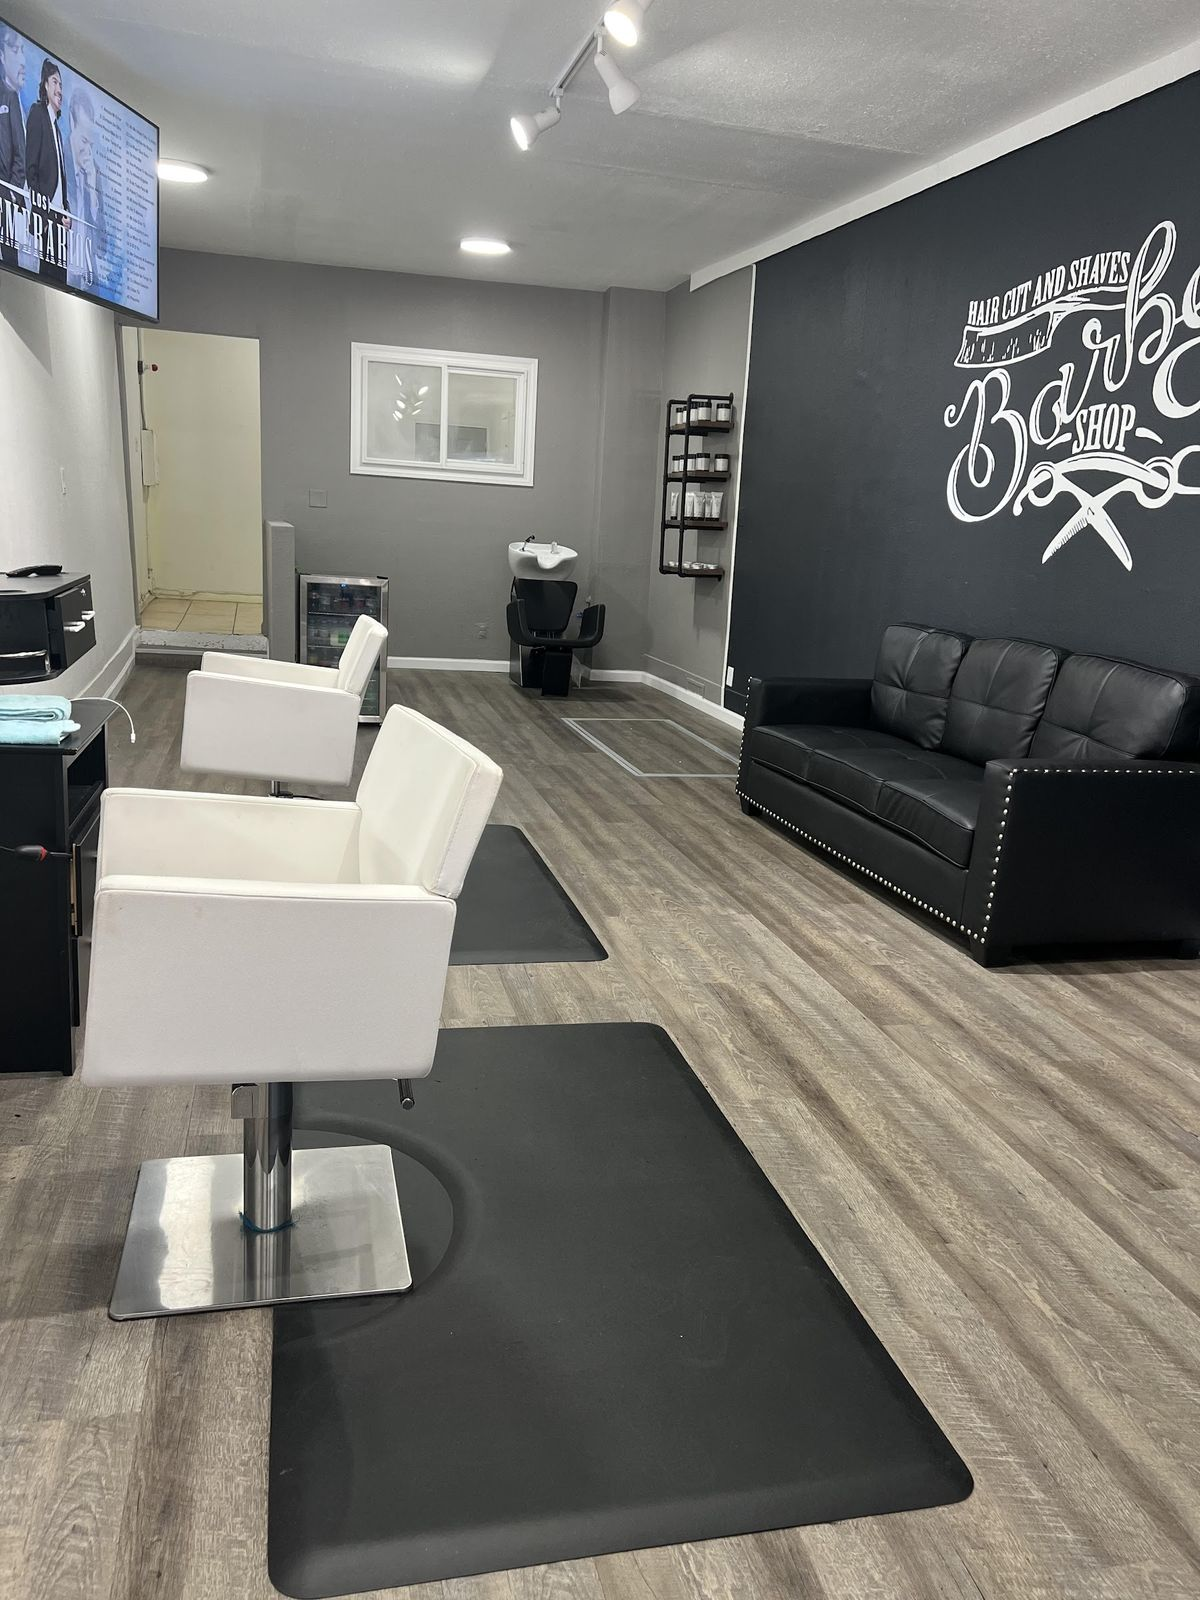
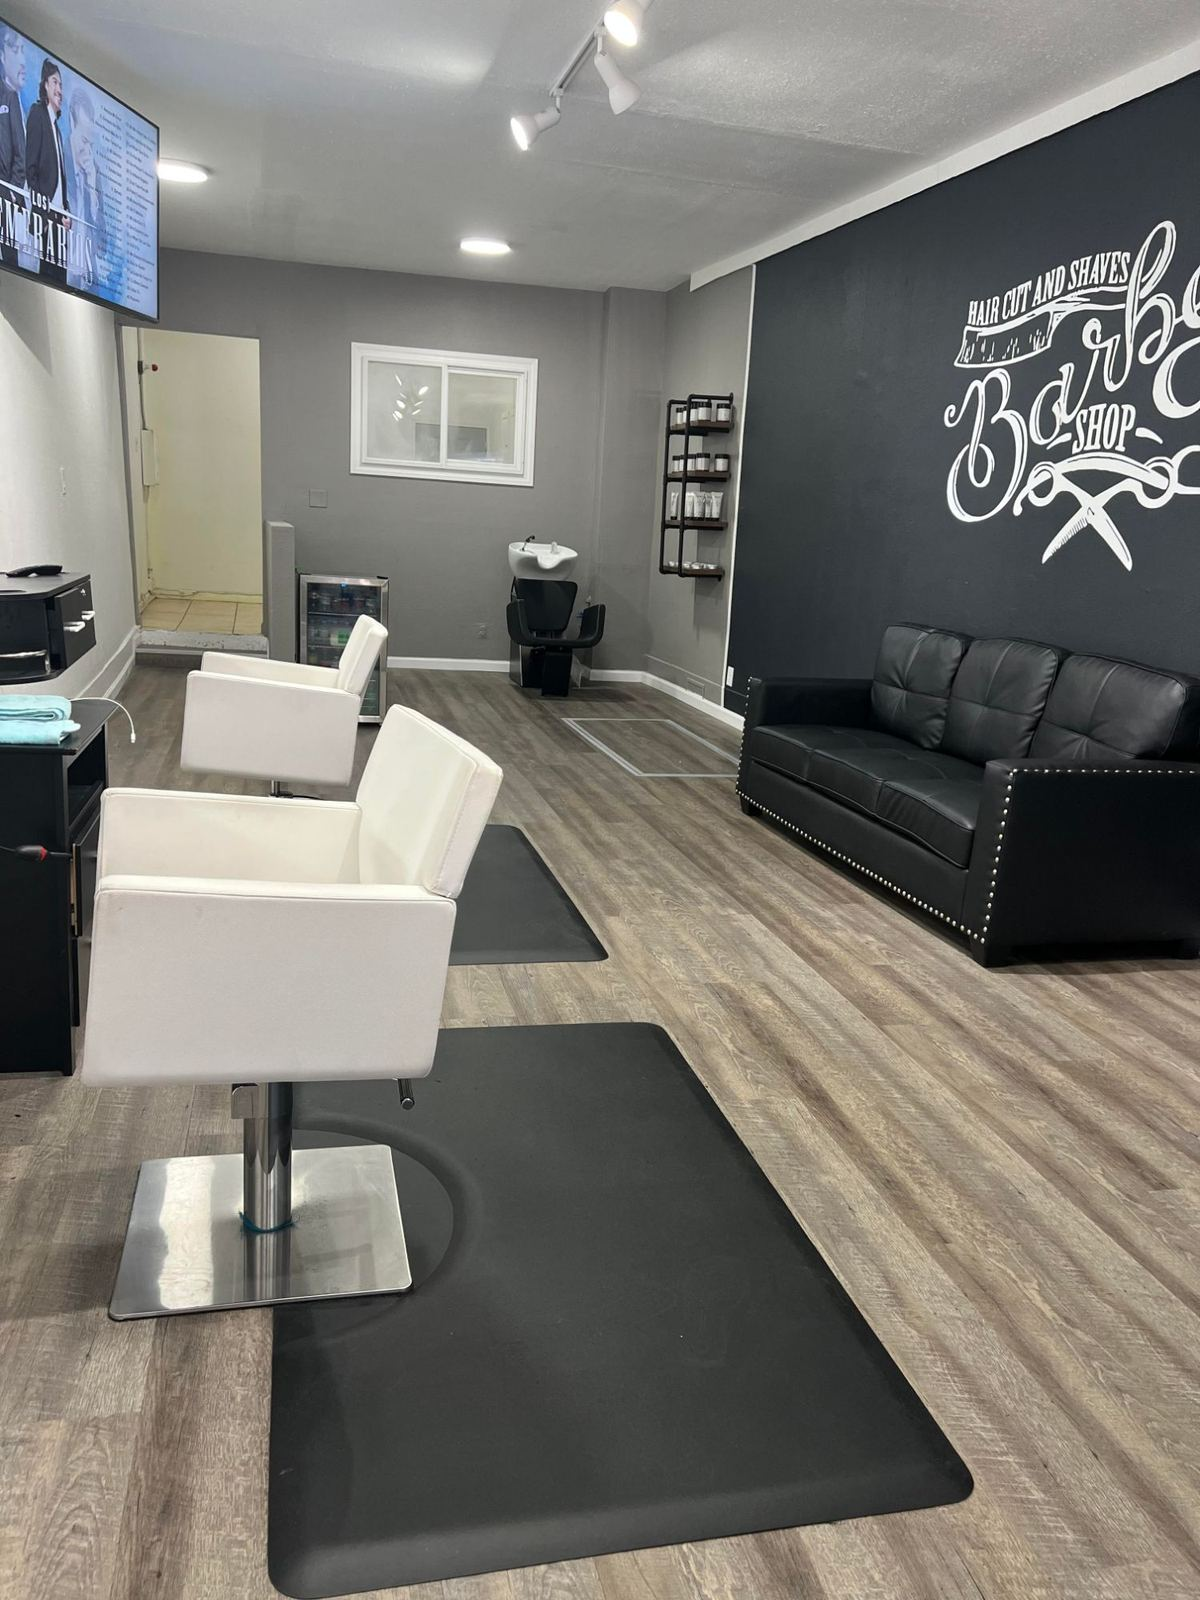
Use the shop's real photos: barber at work, storefront, gallery
- Hero shows a De Leon barber at work, with the high-res storefront print
- New "The work" gallery: interior, skin fade, low taper, classic taper
  and the front of the shop; linked from the nav and footer
- Storefront in the Visit section replaced with the high-res photo
- README notes that photo usage must be confirmed with the shop

Claude-Session: https://claude.ai/code/session_01R9sXh5LcaKgb8fYnHfYPUM

diff --git a/index.html b/index.html
@@ -314,7 +314,7 @@
       padding: calc(var(--header-h) + clamp(28px, 6vw, 72px)) 0 clamp(120px, 14vw, 190px);
       border-bottom: 10px solid var(--red);
     }
-    @media (max-width: 959.98px) { .hero { padding-bottom: 150px; } }
+    @media (max-width: 959.98px) { .hero { padding-bottom: 180px; } }
     .hero__pattern {
       position: absolute; inset: -60px; z-index: -1;
       width: calc(100% + 120px); height: calc(100% + 120px);
@@ -353,7 +353,7 @@
     .stage { position: relative; width: min(100%, 540px); aspect-ratio: 1; margin-inline: auto; perspective: 1100px; animation: fadeUp 1s var(--ease) .3s both; }
     .stage__inner { position: absolute; inset: 0; transform-style: preserve-3d; transform: rotateX(var(--rx, 0deg)) rotateY(var(--ry, 0deg)); }
     .photo { position: absolute; margin: 0; overflow: hidden; }
-    .photo img { width: 100%; height: 100%; object-fit: cover; }
+    .photo img { width: 100%; height: 100%; object-fit: cover; object-position: 62% 35%; }
     .photo--interior {
       inset: 2% 6% 9% 16%;
       border-top: 14px solid var(--red); border-right: 14px solid var(--red);
@@ -369,7 +369,7 @@
       box-shadow: 0 26px 50px -18px oklch(0 0 0 / .8);
       animation: pop .7s var(--ease-spring) 1.2s both;
     }
-    .photo--front img { height: auto; aspect-ratio: 442 / 628; }
+    .photo--front img { height: auto; aspect-ratio: 3 / 4; }
     .photo--front figcaption { padding: 8px 2px 10px; font: 600 clamp(.7rem, .6rem + .35vw, .9rem)/1 var(--font-sign); letter-spacing: .14em; text-transform: uppercase; text-align: center; }
 
     /* Emblem on a plaster wall (final CTA) */
@@ -420,7 +420,7 @@
     .chip--rating { right: -2%; top: -3%; background: var(--red); color: var(--white); border: 2px solid var(--black); transform: translateZ(120px) rotate(6deg); animation: pop .6s var(--ease-spring) 2s both; }
     .chip--sign { right: -2%; bottom: 14%; padding: 14px 18px; background: var(--black); color: var(--white); border: 2px solid var(--white); outline: 3px solid var(--black); font-size: clamp(.95rem, .8rem + .5vw, 1.2rem); transform: translateZ(110px) rotate(-4deg); animation: pop .6s var(--ease-spring) 2.3s both; }
     @keyframes pop { from { opacity: 0; transform: translateY(10px) scale(.94); } }
-    @media (max-width: 599.98px) { .chip--sign, .chip--rating { right: 0; } }
+    @media (max-width: 599.98px) { .chip--sign, .chip--rating { right: 0; } .photo--front { left: 2%; width: 38%; } }
 
     /* =========================================================
        SOCIAL PROOF
@@ -612,6 +612,23 @@
     .t-book p { color: oklch(0.95 0.02 30); }
     .t-book .tile__tag { background: var(--black); }
     .t-book .btn { margin-top: auto; align-self: flex-start; }
+
+    /* =========================================================
+       THE WORK (photo gallery)
+       ========================================================= */
+    .gallery { display: grid; gap: 16px; grid-template-columns: repeat(2, 1fr); }
+    @media (min-width: 900px) { .gallery { grid-template-columns: repeat(4, 1fr); gap: 20px; } }
+    .shot { position: relative; margin: 0; overflow: hidden; border-radius: var(--radius); background: var(--black); aspect-ratio: 3 / 4; border: 2px solid var(--black); }
+    .shot img { position: absolute; inset: 0; width: 100%; height: 100%; object-fit: cover; transition: transform .8s var(--ease); }
+    .shot:hover img { transform: scale(1.05); }
+    .shot figcaption {
+      position: absolute; inset: auto 0 0; padding: 48px 16px 14px;
+      background: linear-gradient(transparent, oklch(0 0 0 / .82));
+      color: var(--white); font: 600 .95rem/1.25 var(--font-sign); letter-spacing: .1em; text-transform: uppercase;
+    }
+    .shot figcaption small { display: block; margin-top: 4px; font: 500 .85rem/1.3 var(--font-body); letter-spacing: 0; text-transform: none; color: oklch(0.85 0.004 260); }
+    .shot--big { grid-column: 1 / -1; aspect-ratio: 4 / 3; border-top: 10px solid var(--red); }
+    @media (min-width: 900px) { .shot--big { grid-column: 1 / 3; grid-row: 1 / 3; aspect-ratio: auto; } }
 
     /* =========================================================
        HOW IT WORKS
@@ -864,7 +881,7 @@
       <nav class="nav" id="menu" aria-label="Main">
         <ul>
           <li><a href="#services">Services</a></li>
-          <li><a href="#how-it-works">How it works</a></li>
+          <li><a href="#work">The work</a></li>
           <li><a href="#reviews">Reviews</a></li>
           <li><a href="#visit">Visit</a></li>
           <li><a href="#faq">FAQ</a></li>
@@ -930,10 +947,10 @@
         <div class="stage" data-tilt>
           <div class="stage__inner">
             <figure class="photo photo--interior">
-              <img src="img/interior.jpg" width="1200" height="1600" alt="Inside De Leon Barbershop: white barber chairs, a black leather couch and a chalk-style &quot;Hair cut and shaves&quot; sign on the wall" fetchpriority="high">
+              <img src="img/barber-at-work.jpg" width="1100" height="1375" alt="A De Leon barber, smiling, running clippers along a client's neckline" fetchpriority="high">
             </figure>
             <figure class="photo photo--front">
-              <img src="img/storefront.jpg" width="442" height="628" alt="De Leon Barbershop storefront on Mission St: black facade, red trim and the painted De Leon emblem">
+              <img src="img/storefront.jpg" width="1050" height="1400" alt="De Leon Barbershop storefront on Mission St: black facade, red trim and the painted De Leon emblem">
               <figcaption>2138 Mission St</figcaption>
             </figure>
 
@@ -1168,6 +1185,44 @@
     </section>
 
     <!-- =====================================================
+         THE WORK (real photos from the shop)
+         ===================================================== -->
+    <section class="section" id="work" aria-labelledby="work-title" style="padding-top:0">
+      <div class="container">
+        <div class="section-head">
+          <div>
+            <p class="eyebrow">The work</p>
+            <h2 class="h2" id="work-title">Fresh out of the chair.</h2>
+          </div>
+          <p class="lead">Real cuts, real clients, right here on Mission St. No stock photos.</p>
+        </div>
+
+        <div class="gallery">
+          <figure class="shot shot--big reveal">
+            <img src="img/interior.jpg" width="1200" height="1600" loading="lazy" alt="Inside De Leon Barbershop: white barber chairs, a black leather couch and a chalk-style &quot;Hair cut and shaves&quot; sign on a black wall">
+            <figcaption>The shop<small>Clean chairs, a comfy couch, and a wall that says it all.</small></figcaption>
+          </figure>
+          <figure class="shot reveal">
+            <img src="img/cut-skin-fade.jpg" width="900" height="1200" loading="lazy" alt="Side view of a client with a high skin fade and a textured top">
+            <figcaption>Skin fade<small>Textured top, clean blend</small></figcaption>
+          </figure>
+          <figure class="shot reveal">
+            <img src="img/cut-low-taper.jpg" width="720" height="1280" loading="lazy" alt="Smiling client with a low taper and a side-swept top">
+            <figcaption>Low taper<small>Side-swept, sharp edges</small></figcaption>
+          </figure>
+          <figure class="shot reveal">
+            <img src="img/cut-taper-gray.jpg" width="900" height="1200" loading="lazy" alt="Side view of a client with salt-and-pepper hair cut into a clean taper">
+            <figcaption>Classic taper<small>Salt &amp; pepper, kept tidy</small></figcaption>
+          </figure>
+          <figure class="shot reveal">
+            <img src="img/interior-front.jpg" width="900" height="1200" loading="lazy" alt="View through the shop toward the front door and window, past the barber chairs and stations">
+            <figcaption>Up front<small>Natural light, steps from Mission St</small></figcaption>
+          </figure>
+        </div>
+      </div>
+    </section>
+
+    <!-- =====================================================
          HOW IT WORKS
          ===================================================== -->
     <section class="section" id="how-it-works" aria-labelledby="how-title" style="padding-top:0">
@@ -1333,7 +1388,7 @@
 
         <div class="visit__media reveal">
           <figure class="storefront">
-            <img src="img/storefront.jpg" width="442" height="628" loading="lazy" alt="De Leon Barbershop storefront: black facade with red trim, a white &quot;Barbershop&quot; sign and &quot;Hair cuts &amp; shaves&quot; painted below the window">
+            <img src="img/storefront.jpg" width="1050" height="1400" loading="lazy" alt="De Leon Barbershop storefront: black facade with red trim, a white &quot;Barbershop&quot; sign and &quot;Hair cuts &amp; shaves&quot; painted below the window">
             <figcaption>Black facade · red trim · "Barbershop" sign</figcaption>
           </figure>
         <div class="map">
@@ -1481,6 +1536,7 @@
           <h2>Explore</h2>
           <ul>
             <li><a href="#services">Services</a></li>
+            <li><a href="#work">The work</a></li>
             <li><a href="#how-it-works">How it works</a></li>
             <li><a href="#reviews">Reviews</a></li>
             <li><a href="#faq">FAQ</a></li>

diff --git a/README.md b/README.md
@@ -12,3 +12,7 @@ Open `index.html` in a browser, or serve the folder with any static host.
 - Optionally paste 3 real Google reviews (with permission) into the commented testimonials block.
 
 The phone number used by every call button is set once in the `PHONE` constant at the bottom of `index.html`.
+
+## Photos
+
+`img/` holds the shop photos used on the page (resized and compressed). Before going live, confirm with the shop that every photo can be used on its website, since photos uploaded to Google Maps by customers belong to whoever took them.
